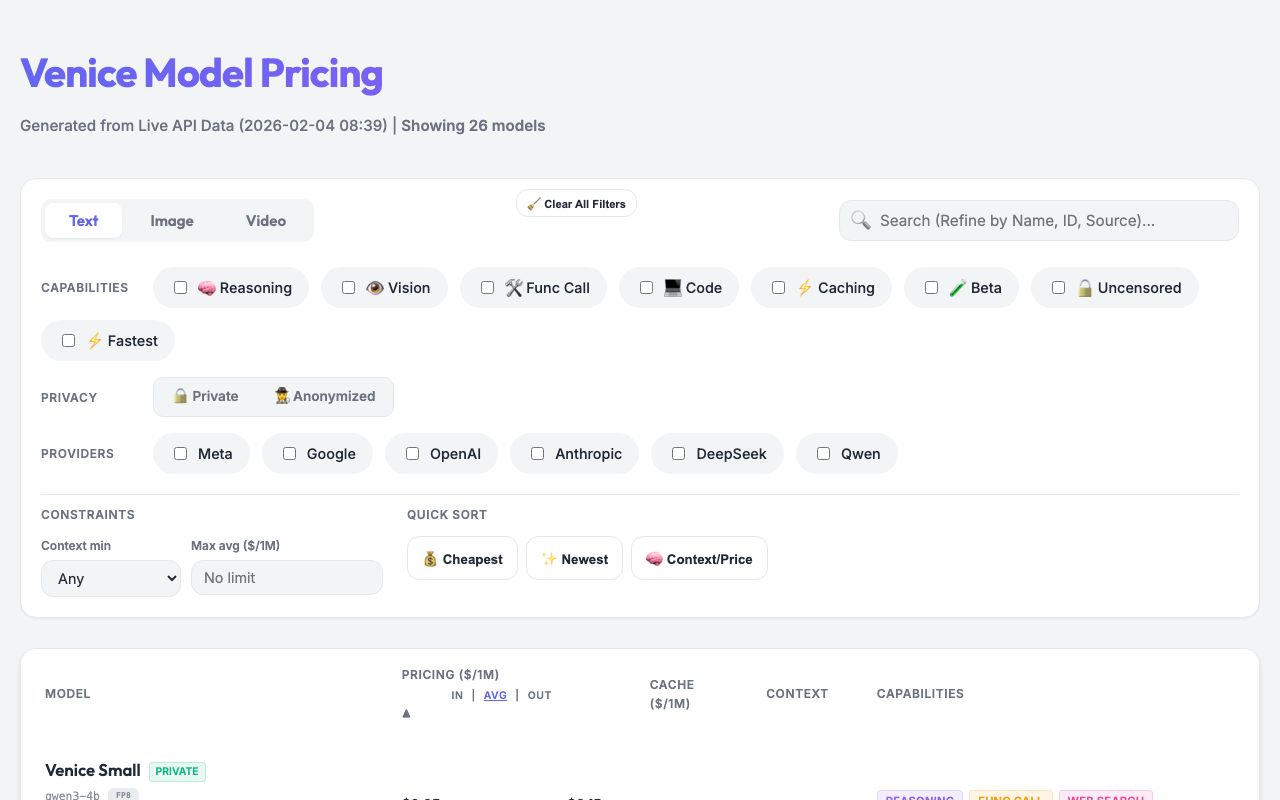
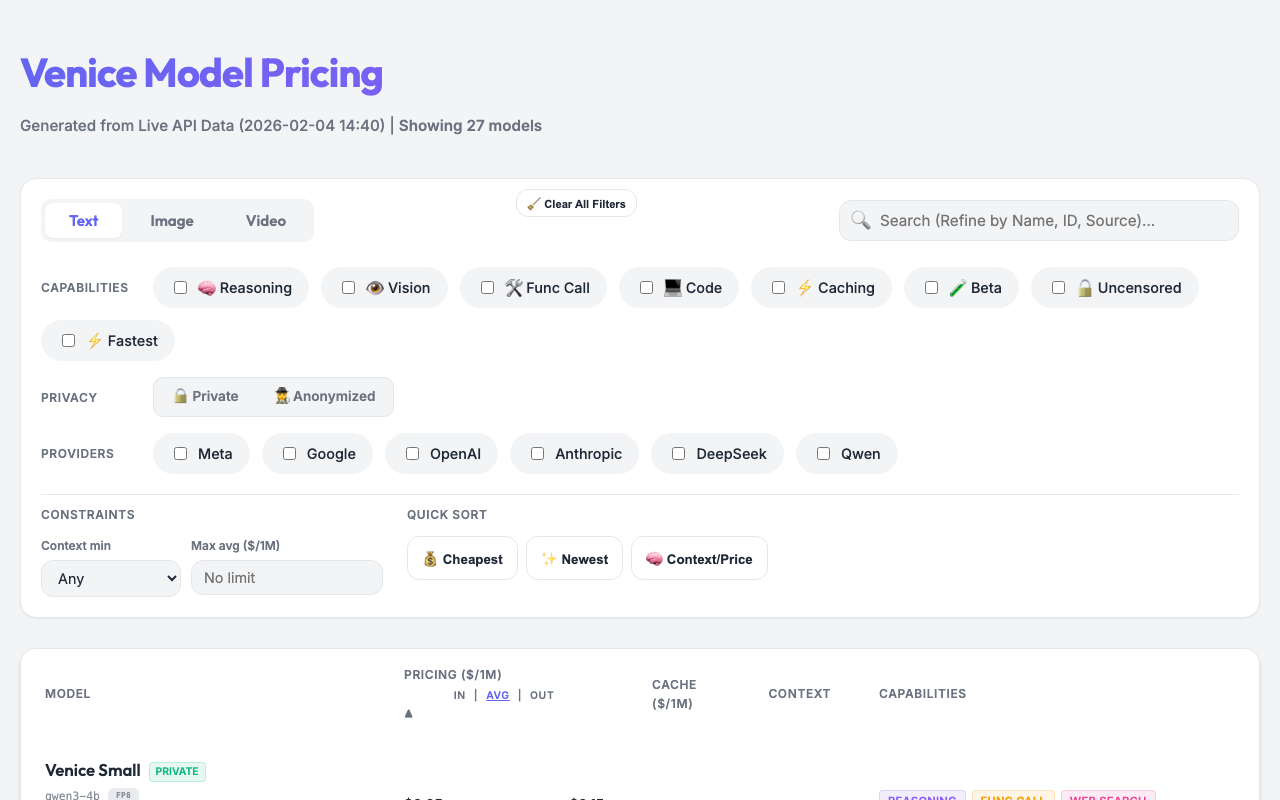
chore: automated pricing update (2026-02-04 14:40:11)
🆕 Added Models (1): zai-org-glm-4.7-flash

diff --git a/docs/index.html b/docs/index.html
@@ -745,7 +745,7 @@
     <div class="container">
         <header>
             <h1>Venice Model Pricing</h1>
-            <div class="meta">Generated from Live API Data (2026-02-04 08:39)</div>
+            <div class="meta">Generated from Live API Data (2026-02-04 14:40)</div>
         </header>
 
         <div class="controls">
@@ -2086,6 +2086,53 @@
         "traits": [
           "default_vision"
         ]
+      },
+      "object": "model",
+      "owned_by": "venice.ai",
+      "type": "text"
+    },
+    {
+      "created": 1769644800,
+      "id": "zai-org-glm-4.7-flash",
+      "model_spec": {
+        "betaModel": true,
+        "pricing": {
+          "input": {
+            "usd": 0.125,
+            "diem": 0.125
+          },
+          "output": {
+            "usd": 0.5,
+            "diem": 0.5
+          }
+        },
+        "availableContextTokens": 128000,
+        "capabilities": {
+          "optimizedForCode": false,
+          "quantization": "fp8",
+          "supportsAudioInput": false,
+          "supportsFunctionCalling": true,
+          "supportsLogProbs": false,
+          "supportsReasoning": false,
+          "supportsResponseSchema": true,
+          "supportsVideoInput": false,
+          "supportsVision": false,
+          "supportsWebSearch": true
+        },
+        "constraints": {
+          "temperature": {
+            "default": 0.7
+          },
+          "top_p": {
+            "default": 0.9
+          }
+        },
+        "description": "GLM-4.7-Flash is a fast inference variant of GLM-4.7, optimized for speed while maintaining strong reasoning capabilities. Ideal for applications requiring quick responses with good quality.",
+        "name": "GLM 4.7 Flash",
+        "modelSource": "https://huggingface.co/zai-org/GLM-4.7-Flash",
+        "offline": false,
+        "privacy": "private",
+        "traits": []
       },
       "object": "model",
       "owned_by": "venice.ai",
